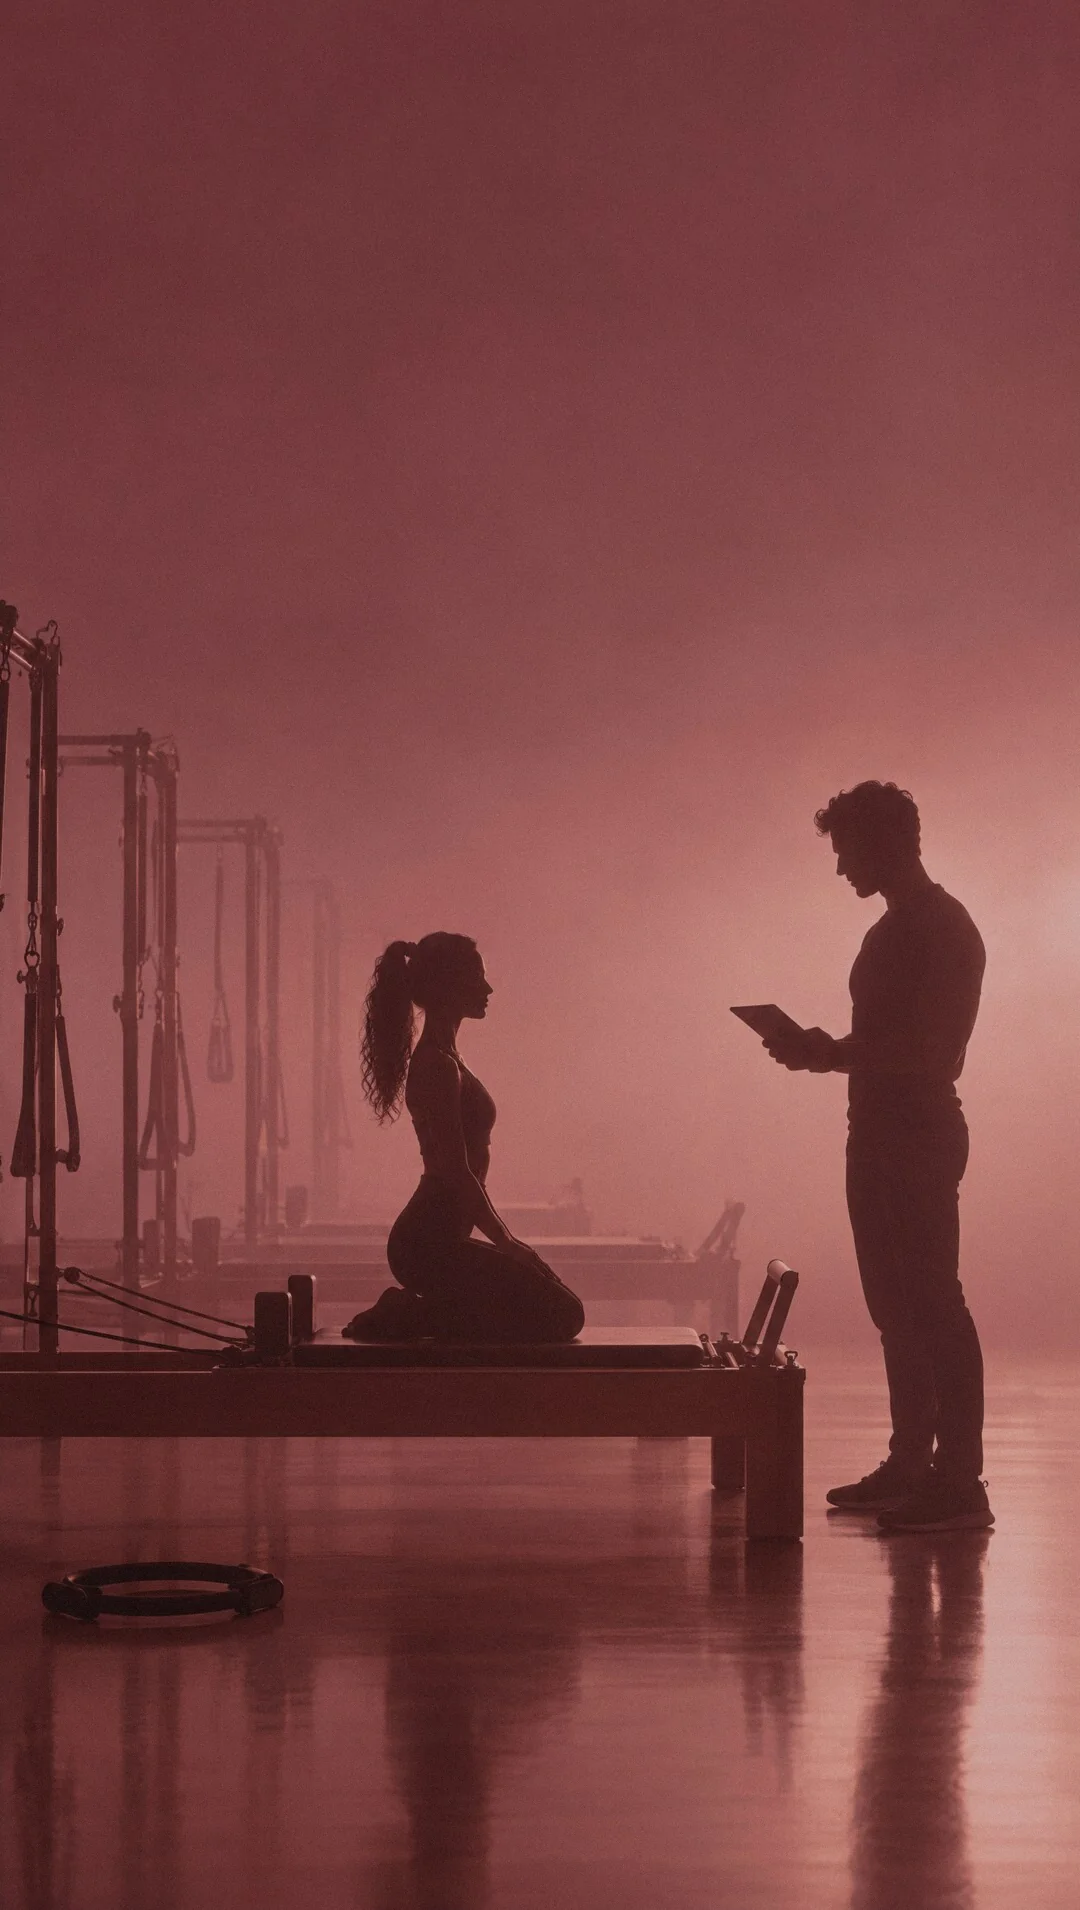
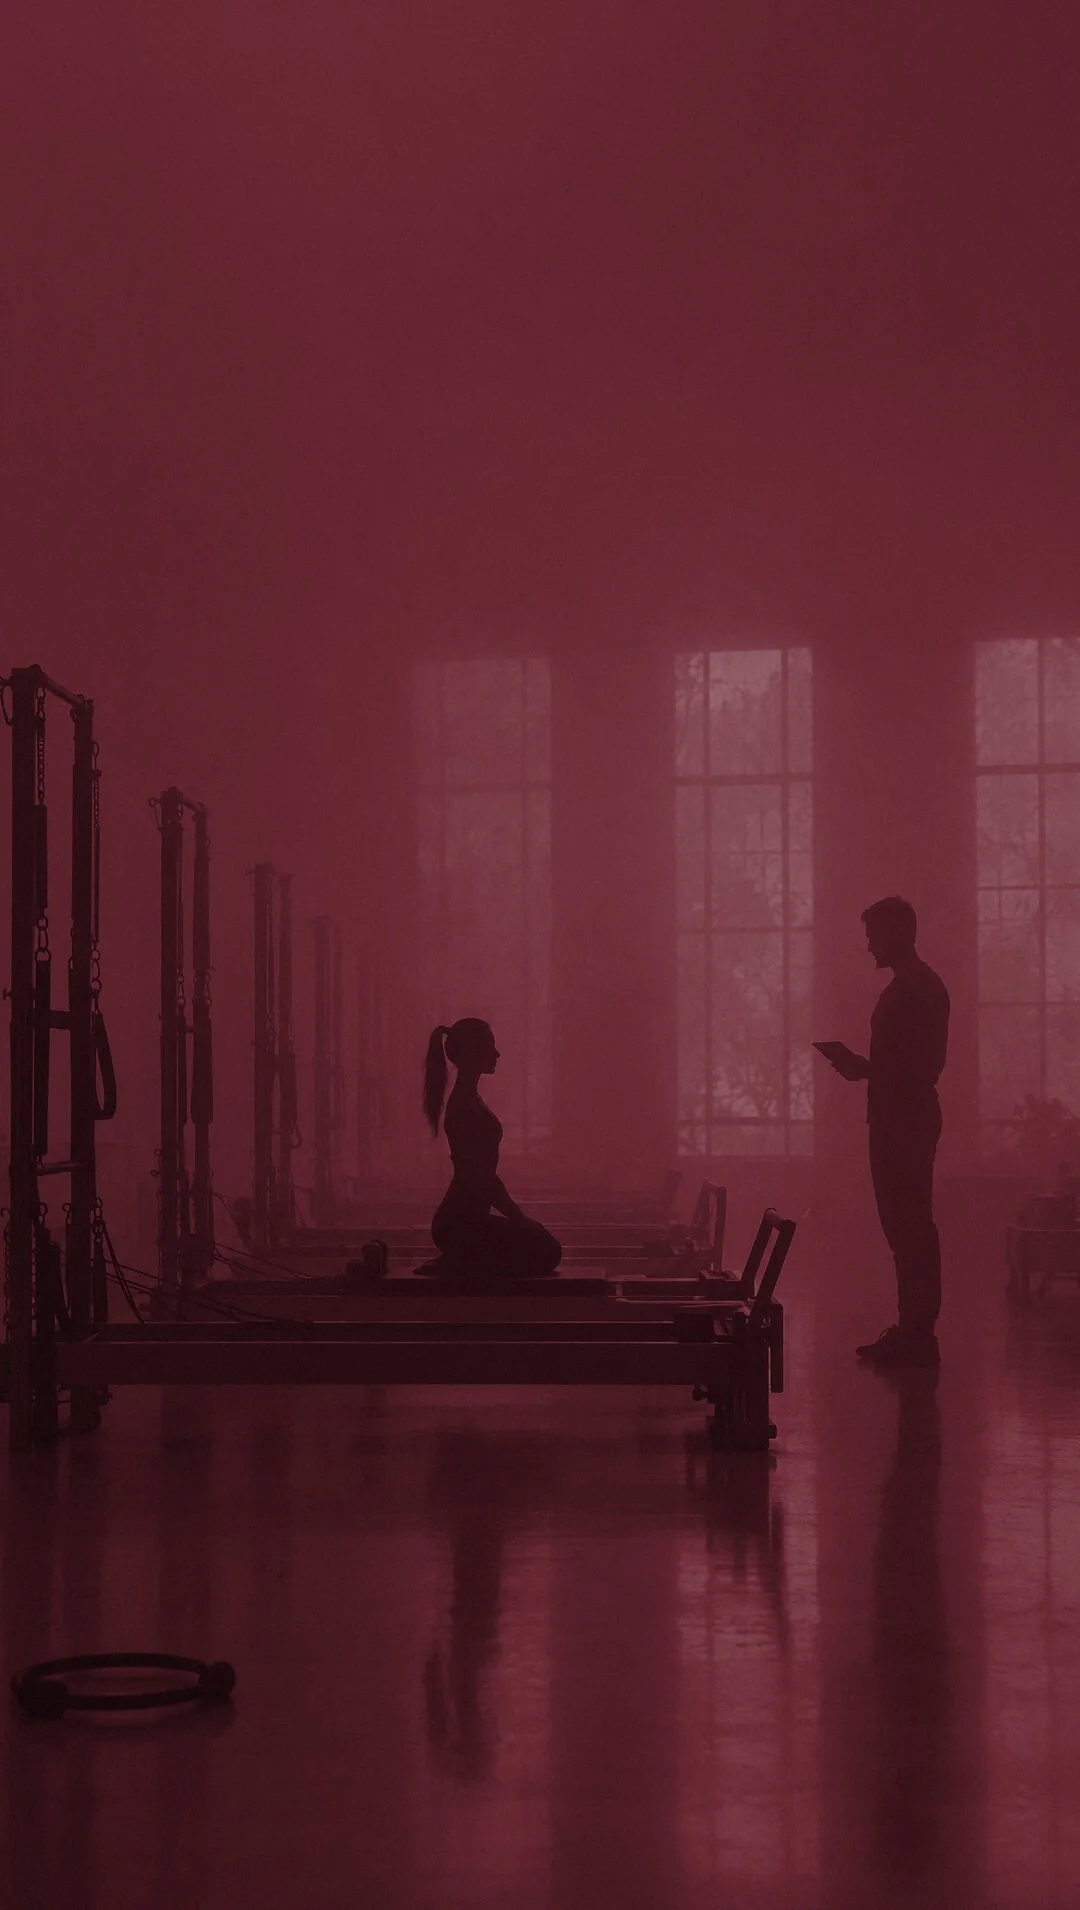
Welcome screen: darker burgundy misty studio, smaller type
Wide misty reformer studio with tall windows and small silhouettes,
graded into a darker burgundy. Headline, intro, pill and button sizes
reduced to match the requested proportions.

Claude-Session: https://claude.ai/code/session_016AGgtGRAN1LHN5jUB5f2i9

diff --git a/packages/ui/src/styles.css b/packages/ui/src/styles.css
@@ -769,19 +769,19 @@ button.tile{font:inherit}
 .wel{--wel-ink:#0D0F13;position:relative;isolation:isolate;max-width:560px;margin:0 auto;min-height:100vh;min-height:100dvh;display:flex;flex-direction:column;overflow:hidden;background:var(--bg);color:var(--glass-ink);
   padding:max(18px,env(safe-area-inset-top,0px)) max(24px,env(safe-area-inset-right,0px)) max(24px,env(safe-area-inset-bottom,0px)) max(24px,env(safe-area-inset-left,0px))}
 .wel-photo{position:absolute;inset:0;z-index:-1}
-.wel-photo img{width:100%;height:100%;object-fit:cover;object-position:50% 62%;display:block;transform:scale(1.08);transform-origin:50% 0}
+.wel-photo img{width:100%;height:100%;object-fit:cover;object-position:50% 62%;display:block;}
 .wel-photo::after{content:"";position:absolute;inset:0;background:linear-gradient(180deg,rgba(13,15,19,.28) 0%,rgba(13,15,19,0) 30%,rgba(13,15,19,0) 80%,rgba(13,15,19,.3) 100%)}
 .wel-top{display:flex;align-items:center;justify-content:space-between}
 .wel-logo{display:inline-flex;align-items:center;gap:8px}
-.wel-logo b{font:900 20px/1 var(--head);font-stretch:118%;letter-spacing:.02em}
-.wel-copy{margin-top:clamp(28px,7vh,96px);display:flex;flex-direction:column;align-items:flex-start}
-.wel-h{margin:0;font:300 clamp(36px,10.2vw,54px)/1.04 var(--head);letter-spacing:-.035em;text-wrap:balance;text-shadow:0 1px 18px rgba(13,15,19,.18)}
-.wel-h b{font-weight:800;letter-spacing:-.03em}
-.wel-sub{margin:18px 0 0;max-width:36ch;font-size:15px;line-height:1.45;color:rgba(255,255,255,.82)}
-.wel-pill{margin-top:22px;display:inline-flex;align-items:center;gap:10px;min-height:44px;padding:0 18px 0 20px;border-radius:var(--pill);border:1px solid var(--glass-line);background:var(--glass);backdrop-filter:blur(14px);-webkit-backdrop-filter:blur(14px);color:var(--glass-ink);font:700 12px/1 var(--ui);letter-spacing:.12em;text-transform:uppercase;text-decoration:none}
+.wel-logo b{font:900 17px/1 var(--head);font-stretch:118%;letter-spacing:.02em}
+.wel-copy{margin-top:clamp(56px,12vh,140px);display:flex;flex-direction:column;align-items:flex-start}
+.wel-h{margin:0;max-width:13em;font:300 clamp(30px,8.4vw,44px)/1.1 var(--head);letter-spacing:-.025em;text-wrap:balance;text-shadow:0 1px 14px rgba(13,15,19,.2)}
+.wel-h b{font-weight:700;letter-spacing:-.02em}
+.wel-sub{margin:14px 0 0;max-width:38ch;font-size:13.5px;line-height:1.45;color:rgba(255,255,255,.8)}
+.wel-pill{margin-top:22px;display:inline-flex;align-items:center;gap:10px;min-height:40px;padding:0 16px 0 18px;border-radius:var(--pill);border:1px solid var(--glass-line);background:var(--glass);backdrop-filter:blur(14px);-webkit-backdrop-filter:blur(14px);color:var(--glass-ink);font:600 11px/1 var(--ui);letter-spacing:.08em;text-transform:uppercase;text-decoration:none}
 .wel-pill:focus-visible{outline:2px solid var(--act);outline-offset:3px}
 .wel-actions{margin-top:auto;display:flex;flex-direction:column;gap:10px;width:100%;max-width:440px;align-self:center}
-.wel-btn{min-height:56px;border:0;border-radius:var(--pill);background:var(--glass-ink);color:var(--wel-ink);font:700 16px/1 var(--ui);letter-spacing:.01em;cursor:pointer}
+.wel-btn{min-height:52px;border:0;border-radius:var(--pill);background:var(--glass-ink);color:var(--wel-ink);font:600 15px/1 var(--ui);letter-spacing:.01em;cursor:pointer}
 .wel-alt{min-height:48px;border-radius:var(--pill);border:1px solid var(--glass-line);background:var(--glass-dim);backdrop-filter:blur(14px);-webkit-backdrop-filter:blur(14px);color:var(--glass-ink);font:600 14px/1 var(--ui);cursor:pointer}
 .wel-btn:focus-visible,.wel-alt:focus-visible{outline:2px solid var(--act);outline-offset:3px}
 @media (min-width:600px){.wel{box-shadow:0 0 0 100vmax var(--wel-ink)}}

diff --git a/apps/web/src/auth/Welcome.tsx b/apps/web/src/auth/Welcome.tsx
@@ -24,12 +24,12 @@ export function Welcome({ onContinue, demo }: { onContinue: () => void; demo: bo
         <img src="/welcome/pilates.webp" srcSet="/welcome/pilates-720.webp 720w, /welcome/pilates.webp 1080w" sizes="(max-width:720px) 100vw, 1080px" width={1080} height={1910} alt="" fetchPriority="high" />
       </picture>
       <div className="wel-top">
-        <span className="wel-logo"><Icons.logo width={26} height={26} /><b>APEX</b></span>
+        <span className="wel-logo"><Icons.logo width={22} height={22} /><b>APEX</b></span>
       </div>
       <div className="wel-copy">
         <h1 className="wel-h">Train with <b>Purpose.</b> Move with <b>Grace.</b></h1>
         <p className="wel-sub">Coach-built plans, guided Pilates and strength sessions, check-ins and real progress, all in one calm place.</p>
-        <a className="wel-pill" href="/#how">Watch how it works <Icons.play width={14} height={14} /></a>
+        <a className="wel-pill" href="/#how">Watch how it works <Icons.play width={12} height={12} /></a>
       </div>
       <div className="wel-actions">
         <button className="wel-btn" onClick={go}>{demo ? "Open my training" : "Get started"}</button>
